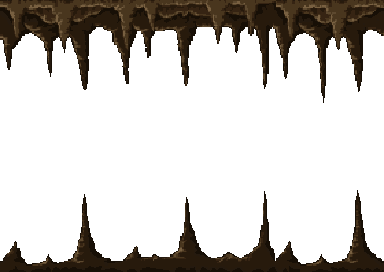
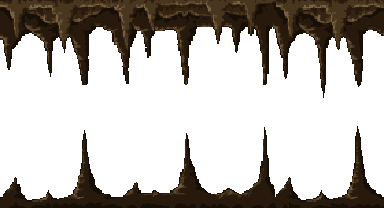
Añadida sala pasillo

diff --git a/src/game/__main__.py b/src/game/__main__.py
@@ -77,11 +77,16 @@ def main():
 	# Objetos sala pasillo
 	obj.load('VisibleArea', 3, 0)
 	obj.load('VisibleArea', 4, 0)
+	obj.load('TileMap', 2, 0)
+	obj.load('TileCollision', 2, 0)
 	obj.load('Bckgnd', 4, 0)
 
 	# Objetos sala biblio
 	obj.load('Bckgnd', 5, 0)
 	obj.load('VisibleArea', 5, 0)
+	obj.load('TileMap', 3, 0)
+	obj.load('TileCollision', 3, 0)
+
 	
 	# Objetos sala catacumbas
 	obj.load('BckgndParallax', 1, 0)

diff --git a/src/obj/base.py b/src/obj/base.py
@@ -478,7 +478,7 @@ class ObjStaticR(Obj):
 				else:
 					return cls(HASH, FATHR_HASH, **obj)
 
-			raise ObjNotFoundError(self.TYPE, HASH)
+			raise ObjNotFoundError(cls, HASH)
 
 
 class ObjStaticRW(ObjStaticR):
